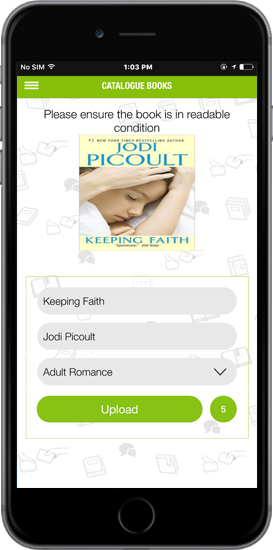
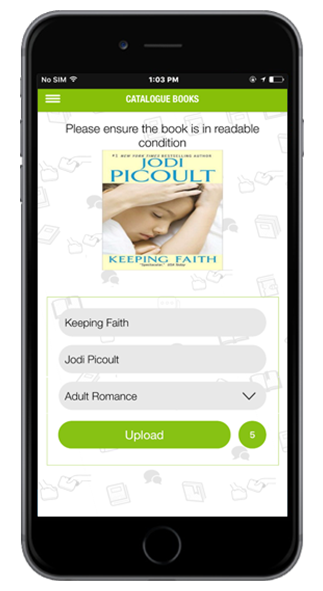
changes in images and css for landing page

diff --git a/app/assets/stylesheets/landing-page.css b/app/assets/stylesheets/landing-page.css
@@ -757,8 +757,11 @@ background-color:#000;}
 .carousel-inner .item img {
     width: 100% !important;
 }
-.carousel-inner .mob-img1{
+/*--.carousel-inner .mob-img1{
     width: 79% !important;
+}--*/
+.carousel-inner .mob-img1{
+    width: 100% !important;
 }
 /*=================last */
 .form-control {
@@ -848,6 +851,7 @@ background-color:#000;}
 /*=====================================Responsive====================================*/
 
 @media(min-width:320px) and (max-width:480px){
+
 .navbar-brand {
     float: left;
     font-size: 18px;
@@ -888,7 +892,7 @@ color:#363636;
 }
 .resp-head {
     display: block;
-    left: 5% !important;
+    left: 6% !important;
     position: absolute;
     text-align: center;
     top: 0 !important;
@@ -907,7 +911,17 @@ color:#363636;
 }
 .small_d_model{max-height: 350px;overflow: auto;}
 }
+
+
+
 @media(max-width:767px) {
+.intro-message >.resp-head h1  {
+    left: 6% !important;
+}
+.carousel-caption {
+    width: 100% !important;
+    margin: 0px auto;
+}
 .carousel-inner .mob-img1 {
     width: 100% !important;
 }
@@ -1014,7 +1028,7 @@ padding:0;
 }
 .intro-message >.resp-head h1  {
     font-size: 1.5em;
-    left: 5% !important;
+    left: 6% !important;
     top: 29px !important;
     z-index: 99;
 }
@@ -1051,6 +1065,8 @@ padding:0;
     width: 72%;
     margin: 0 auto;
 }
+
+
 .lead1,.lead2,.lead3,.lead-1,.lead-2,.lead-3 {
     font-size: 16px;
     margin-bottom: 22px;
@@ -1274,7 +1290,7 @@ ul.banner-social-buttons{ width:144px;}
 .mob-img1 img{ }
 .play-btn{margin-left:-86px !important;left:50% !important;}
 .resp-head{ left:0 !important;}
-.intro-message > .resp-head h1{ left:0 !important;}
+/*.intro-message > .resp-head h1{ left:0 !important;}*/
 .btn-red2 {padding: 7px 16px;}
 .thankBx{ margin:10px auto !important;width:92% !important;}
 .thankBx .about-head h3{ font-size:18px !important;margin-top:0 !important;}
@@ -1288,7 +1304,9 @@ ul.banner-social-buttons{ width:144px;}
 .thankBx .btns span img{ max-width:100% !important;}
 .thankBx ul.banner-social-buttons{ margin:0 auto !important;}
 .slider-left{ display:block !important;width:auto !important;padding:0 !important;margin-bottom:36px !important;text-align:center !important;}
-.content-section-b{ padding-top:0 !important;}
+.content-section-b {
+    padding-top: 21% !important;
+}
 }
 @media(max-width:639px){
 .navbar-brand{ width:250px;}
